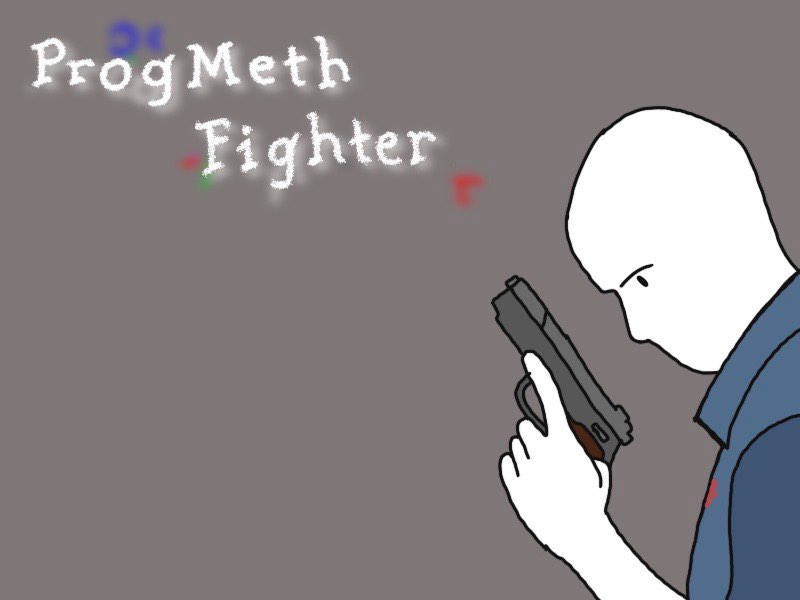
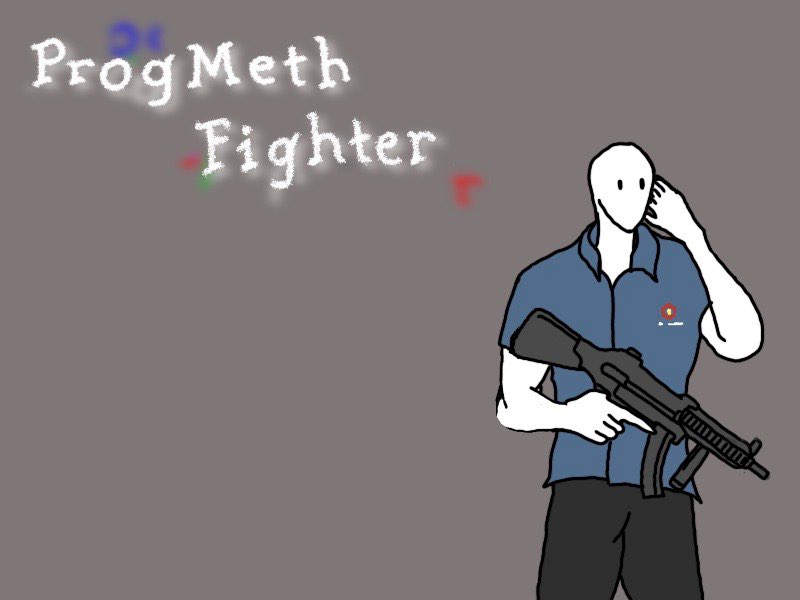
add effect startPage

Changed region(s): [[0.5938, 0.18, 1.0, 1.0]]

diff --git a/src/application/StartPage.java b/src/application/StartPage.java
@@ -2,10 +2,9 @@ package application;
 
 import java.io.IOException;
 
+import javafx.application.Platform;
 import javafx.geometry.Insets;
 import javafx.geometry.Pos;
-import javafx.scene.Cursor;
-import javafx.scene.Node;
 import javafx.scene.Scene;
 import javafx.scene.control.Button;
 import javafx.scene.image.Image;
@@ -20,6 +19,9 @@ import javafx.stage.Stage;
 public class StartPage{
 	public VBox root;
 	public Scene scene;
+	Image backgroundImage;
+	BackgroundImage background;
+	int i =1;
 	
 	public static Scene getStartPageScene() {
 		StartPage page = new StartPage();
@@ -33,10 +35,29 @@ public class StartPage{
 	     root.setAlignment(Pos.CENTER_LEFT);
 
 	     //Set background image
-	     Image backgroundImage = new Image((String) ClassLoader.getSystemResource("Opening1.png").toString());
-	     BackgroundImage background = new BackgroundImage(backgroundImage,BackgroundRepeat.NO_REPEAT, BackgroundRepeat.NO_REPEAT,BackgroundPosition.CENTER, BackgroundSize.DEFAULT);
+	     backgroundImage = new Image((String) ClassLoader.getSystemResource("Opening0.png").toString());
+	     background = new BackgroundImage(backgroundImage,BackgroundRepeat.NO_REPEAT, BackgroundRepeat.NO_REPEAT,BackgroundPosition.CENTER, BackgroundSize.DEFAULT);
 	     root.setBackground(new Background(background));
-
+	     
+	     new Thread(() -> {
+	    	 
+	    	 while(true) {
+	    		 i=i%3;
+	    		 try {
+					Thread.sleep(3000);
+				} catch (InterruptedException e) {
+					// TODO Auto-generated catch block
+					e.printStackTrace();
+				}
+	    		 Platform.runLater(() -> {
+	    			 backgroundImage = new Image((String) ClassLoader.getSystemResource("Opening"+i+".png").toString());
+		    	     background = new BackgroundImage(backgroundImage,BackgroundRepeat.NO_REPEAT, BackgroundRepeat.NO_REPEAT,BackgroundPosition.CENTER, BackgroundSize.DEFAULT);
+		    	     root.setBackground(new Background(background));
+	    		 });
+	    		 i+=1;
+	    		 
+	    	 }
+	     }).start();
 	     // Game logo
 //	     Image logoImage = new Image("logo.png");
 //	     ImageView logoImageView = new ImageView(logoImage);
@@ -73,44 +94,7 @@ public class StartPage{
 		
 		
 		
-		// myself
-//		root = new GridPane();
-//		root.setAlignment(Pos.CENTER);
-//		root.setHgap(15);
-//		root.setVgap(15);
-//		Button start = new Button("------START------");
-//		start.getStyleClass().add("start");
-//		start.setPrefWidth(120);
-//		start.setOnMouseEntered(e -> {
-//			start.setPrefWidth(start.getWidth()*5/4);
-//			start.setPrefHeight(start.getHeight()*5/4);
-//			start.setCursor(Cursor.HAND);
-//		});
-//		start.setOnMouseExited(e -> {
-//			start.setPrefWidth(start.getWidth()*4/5);
-//			start.setPrefHeight(start.getHeight()*4/5);
-//			
-//		});
-//		start.setOnAction(e -> {
-//		    Stage thisStage = (Stage) ((Node) e.getSource()).getScene().getWindow();
-//		    try {
-//				thisStage.setScene(SelectPage.getSelectScene());
-//			} catch (IOException e1) {
-//				// TODO Auto-generated catch block
-//				e1.printStackTrace();
-//			}
-//		});
-//		
-//		Button something = new Button("something");
-//		something.setPrefWidth(120);
-//		something.setOnAction(e -> {
-//			System.out.println("something");
-//		});
-//
-//		root.add(start,0,0);
-//		root.add(something,0,1);
-//		scene = new Scene(root,800,600);
-//		scene.getStylesheets().add(this.getClass().getResource("application.css").toExternalForm());
+		
 	}
 	
 }
